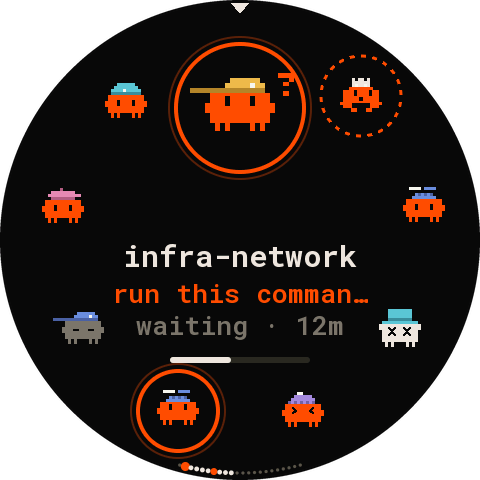
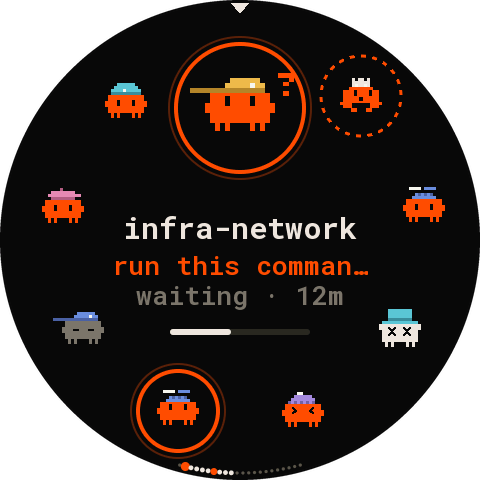
2.8″ spring: the middle higher, clear of the ring
The name, phrase, state, context bar and Wi-Fi mark move up 28 px (the
state line 30): the name now sits on the screen's centre line. Each line
is capped to the room the ring critters and their rings leave at rest
(name 252 px, phrase 256, state 224), and the Wi-Fi mark no longer sits
on a critter at 6 o'clock. The 2.1″ keeps its layout.

test_spring checks it for every fleet of 1 to 22 agents: no line of the
middle meets a critter's body or its rings, or the dots past a turn.

Claude-Session: https://claude.ai/code/session_01Qi6CVTpwKe76G62P4KuUZF

Changed region(s): [[0.2188, 0.4375, 0.7812, 0.7812]]

diff --git a/firmware/panel-core/tests/test_spring.cpp b/firmware/panel-core/tests/test_spring.cpp
@@ -110,6 +110,8 @@ static void testGeometry() {
   assert(p.scale == 3 && fabsf(hypotf(p.x - 240, p.y - 240) - 188) < 0.01f);
   assert(springPlace(O, 8, 20).shown && !springPlace(O, 9, 20).shown);
   assert(fabsf(springStepDeg(O, 20) - 40) < 0.01f && fabsf(springStepDeg(G, 20) - 51.43f) < 0.01f);
+  // Its middle: the name on the centre line, the lines below it.
+  assert(O.nameBase - fontAscent(FONT_R30B) / 2 > 220 && O.nameBase - fontAscent(FONT_R30B) / 2 < 240);
 }
 
 static void testTurning() {
@@ -331,11 +333,62 @@ static void testPartial(const SpringLayout& lay) {
   assert(partials > 40 && gStrips > 100);
 }
 
+// The middle at rest stays clear of every critter (its body, and the rings
+// of a waiter or a done one) with any fleet of up to 22, and of the
+// dots past a turn: each line at the widest it draws (a long name, a long
+// phrase in either font, the widest state line), from the capitals' top to
+// half the descender; the context bar and the Wi-Fi mark too.
+static void testMiddleClear(const SpringLayout& L) {
+  using namespace spring_draw;
+  const SpringGeom& g = L.G;
+  struct Box { const char* what; float x0, y0, x1, y1; };
+  auto line = [](const char* what, const Font& f, int base, int w) {
+    const float size = f.cellW / 0.6f;
+    // The ink: a glyph stops a pixel short of its advance on either side.
+    return Box{what, 240 - w / 2.f + 1, base - 0.74f * size, 240 + w / 2.f - 1, base + 0.12f * size};
+  };
+  const Box mid[] = {
+      line("name", *L.nameFont, g.nameBase, nameMax(L)),
+      line("phrase", *L.phraseFont, g.phraseBase, 234),
+      line("phrase (26 px)", FONT_XXL, g.phraseBase, g.phraseW),
+      line("state", FONT_XXL, g.metaBase, g.metaW),
+      Box{"bar", 240 - g.barW / 2.f, g.barY - 3.f, 240 + g.barW / 2.f, g.barY + 3.f},
+      Box{"wifi", (float)netBox(g).x, (float)netBox(g).y, (float)(netBox(g).x + netBox(g).w), (float)(netBox(g).y + netBox(g).h)},
+  };
+  // Each line below the one above it (the phrase in either font).
+  static const int kAbove[][2] = {{0, 1}, {0, 2}, {1, 3}, {2, 3}, {3, 4}, {4, 5}};
+  for (const auto& k : kAbove) assert(mid[k[1]].y0 >= mid[k[0]].y1);
+  for (int n = 1; n <= 22; n++) {
+    Fleet f = crowd(n);
+    for (int s = 0; s < springTurn(g, n); s++) {
+      const SpringPlace p = springPlace(g, (float)s, n);
+      assert(p.shown);
+      const RoundRect b = critterBox(iround(p.x), iround(p.y), p.scale, false);
+      const float r = haloR(p.scale) + 8;   // a waiter's faint outer ring
+      for (const Box& m : mid) {
+        const bool body = b.x < m.x1 && m.x0 < b.x + b.w && b.y < m.y1 && m.y0 < b.y + b.h;
+        const float dx = fmaxf(fmaxf(m.x0 - p.x, 0), p.x - m.x1), dy = fmaxf(fmaxf(m.y0 - p.y, 0), p.y - m.y1);
+        if (body || dx * dx + dy * dy < r * r) {
+          fprintf(stderr, "%d agents: the %s meets the critter at slot %d (%.0f, %.0f)%s\n", n, m.what, s, p.x, p.y,
+                  body ? "" : "'s ring");
+          assert(false);
+        }
+      }
+    }
+    if (n > g.K)
+      for (int j = 0; j < n; j++) {
+        const Dot d = dotOf(L, f, j, 0);
+        for (const Box& m : mid) assert(d.y - d.r > m.y1 || d.x + d.r < m.x0 || d.x - d.r > m.x1);
+      }
+  }
+}
+
 int main() {
   testGeometry();
   testTurning();
   testWaiters();
   testPartial(layoutSpring21());
   testPartial(layoutSpring28());
+  testMiddleClear(layoutSpring28());
   return 0;
 }

diff --git a/firmware/panel-core/src/layout_spring.h b/firmware/panel-core/src/layout_spring.h
@@ -154,13 +154,12 @@ static inline RoundRect critterBox(int x, int y, int s, bool halo) {
 
 // Fonts and widths of the middle's lines.
 // The phrase: its font while it fits between the ring's side critters, else 26 px.
-constexpr int kPhraseMax = 256;
 static inline const Font& phraseFont(const SpringLayout& L, const char* s) {
   return textW(*L.phraseFont, s) <= 234 ? *L.phraseFont : FONT_XXL;
 }
 static inline int nameMax(const SpringLayout& L) {
   const int w = fitWidth(*L.nameFont, L.G.nameBase, 40);
-  return w < 340 ? w : 340;
+  return w < L.G.nameW ? w : L.G.nameW;
 }
 
 static inline RoundRect textBox(const Font& f, int base, const char* s, int maxW) {
@@ -313,12 +312,12 @@ static inline void build(const SpringLayout& L, const RoundInput& in, Frame& fr)
     e.kind = El::Phrase;
     const char* ph = phrase(a);
     const Font& pf = phraseFont(L, ph);
-    e.box = textBox(pf, G.phraseBase, ph, kPhraseMax);
+    e.box = textBox(pf, G.phraseBase, ph, G.phraseW);
     e.sig = fnvStr(h0 ^ (loud(a) ? 1u : 0u), ph);
     push(fr, e);
     e.kind = El::Meta;
     roundStateLine(a, in.nowEpoch, buf, sizeof buf);
-    e.box = textBox(FONT_XXL, G.metaBase, buf, 260);
+    e.box = textBox(FONT_XXL, G.metaBase, buf, G.metaW);
     e.sig = fnvStr(h0, buf);
     push(fr, e);
     if (a.ctxWindow) {
@@ -548,13 +547,13 @@ static inline void drawElem(Canvas& c, const SpringLayout& L, const RoundInput& 
     case El::Phrase: {
       const Agent& a = f.agents[e.agent];
       const char* ph = phrase(a);
-      textOn(c, phraseFont(L, ph), 240, G.phraseBase, ph, blend565(T.t.bg, loud(a) ? T.t.accent : T.t.dim, e.alpha), kPhraseMax);
+      textOn(c, phraseFont(L, ph), 240, G.phraseBase, ph, blend565(T.t.bg, loud(a) ? T.t.accent : T.t.dim, e.alpha), G.phraseW);
       return;
     }
     case El::Meta: {
       char buf[96];
       roundStateLine(f.agents[e.agent], in.nowEpoch, buf, sizeof buf);
-      textOn(c, FONT_XXL, 240, G.metaBase, buf, blend565(T.t.bg, T.t.dim, e.alpha), 260);
+      textOn(c, FONT_XXL, 240, G.metaBase, buf, blend565(T.t.bg, T.t.dim, e.alpha), G.metaW);
       return;
     }
     case El::Bar: {

diff --git a/firmware/panel-core/src/spring.h b/firmware/panel-core/src/spring.h
@@ -25,19 +25,24 @@ struct SpringGeom {
   float rUnder, peekAng;  // where dives and rises pass under the seam
   float loopR;            // up to K agents: the closed loop's radius
   int nameBase, phraseBase, metaBase, barY, barW;   // the middle
+  int nameW, phraseW, metaW;   // the widest name, phrase and state line (longer ones end in "…")
   float dotsR, dotsSpread;                          // past K: the dots round 6 o'clock
   int netBase;            // on Wi-Fi: the Wi-Fi mark's base, under the context bar
 };
 
-// The Orbit's (2.8″): nine to a turn at x3, the selected one x5; the middle
-// sits lower, between the ring's 80° and 120° slots, where it is widest.
+// The Orbit's (2.8″): nine to a turn at x3, the selected one x5. The name
+// sits on the screen's centre line, the phrase between the ring's 80° and
+// 120° slots, where it is widest. Each line is only as wide as the room the
+// ring critters (and their rings) leave at rest, and the Wi-Fi mark clears a
+// critter at 6 o'clock: test_spring checks it for every fleet up to 22.
 static inline SpringGeom springOrbit28() {
   SpringGeom g{};
   g.K = 9; g.sel = 5; g.ring = 3; g.peek = 1;
   g.rSel = 132; g.rOut = 188; g.rIn = 178; g.rUnder = 104; g.peekAng = 14; g.loopR = 180;
-  g.nameBase = 268; g.phraseBase = 304; g.metaBase = 336; g.barY = 360; g.barW = 140;
+  g.nameBase = 240; g.phraseBase = 276; g.metaBase = 306; g.barY = 332; g.barW = 140;
+  g.nameW = 252; g.phraseW = 256; g.metaW = 224;
   g.dotsR = 233; g.dotsSpread = 30;
-  g.netBase = 386;
+  g.netBase = 358;
   return g;
 }
 
@@ -47,6 +52,7 @@ static inline SpringGeom springDial21() {
   g.K = 7; g.sel = 6; g.ring = 4; g.peek = 2;
   g.rSel = 140; g.rOut = 184; g.rIn = 174; g.rUnder = 108; g.peekAng = 14; g.loopR = 178;
   g.nameBase = 216; g.phraseBase = 254; g.metaBase = 290; g.barY = 314; g.barW = 120;
+  g.nameW = 340; g.phraseW = 256; g.metaW = 260;
   g.dotsR = 233; g.dotsSpread = 26;
   g.netBase = 350;
   return g;
